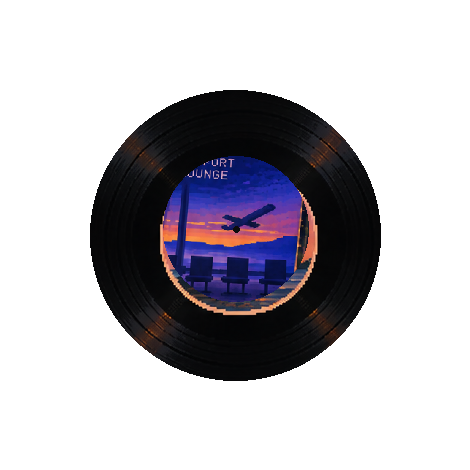
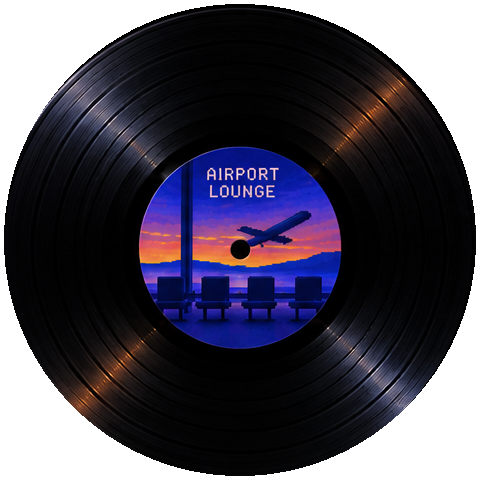
Add files via upload

diff --git a/index.html b/index.html
@@ -204,7 +204,7 @@ html,body{margin:0;width:100%;height:100%;overflow:hidden;background:#05070b;col
 .record-sleeve-hit{top:45.2%;height:17.7%}
 .record-sleeve-hit.s1{left:1.0%;width:21.0%}.record-sleeve-hit.s2{left:20.8%;width:21.2%}.record-sleeve-hit.s3{left:40.4%;width:20.7%}.record-sleeve-hit.s4{left:59.4%;width:21.8%}.record-sleeve-hit.s5{left:79.0%;width:20.0%}
 /* Only the vinyl rotates. The tonearm stays baked into the master image and therefore stationary. */
-.record-spin{position:absolute;left:31.0%;top:22.5%;width:34.5%;aspect-ratio:1;z-index:3;border-radius:50%;pointer-events:none;opacity:0;object-fit:contain;filter:drop-shadow(0 2px 2px #0008)}
+.record-spin{position:absolute;left:29.4%;top:22.0%;width:36.7%;aspect-ratio:1;z-index:3;border-radius:50%;pointer-events:none;opacity:0;object-fit:contain;filter:drop-shadow(0 2px 2px #0008)}
 .record-window.playing .record-spin{opacity:1;animation:recordSpin 2.25s linear infinite}
 .record-playing-dot{position:absolute;left:31.6%;top:40.2%;width:8px;height:8px;border-radius:50%;background:#ff3a20;box-shadow:0 0 8px #ff4a20;z-index:6;opacity:0;pointer-events:none}
 .record-window.playing .record-playing-dot{opacity:1}
@@ -524,8 +524,8 @@ const recordCollection=[
  {title:'ELEVATOR DREAMS',artist:'KEVIN MACLEOD',url:'https://commons.wikimedia.org/wiki/Special:Redirect/file/Local_Forecast_-_Elevator_%28ISRC_USUAN1300012%29.mp3',credit:'Local Forecast - Elevator — Kevin MacLeod · CC BY 3.0'},
  {title:'LOBBY TIME',artist:'KEVIN MACLEOD',url:'https://commons.wikimedia.org/wiki/Special:Redirect/file/Lobby_Time_%28ISRC_USUAN1600054%29.mp3',credit:'Lobby Time — Kevin MacLeod · CC BY 3.0'},
  {title:'AIRPORT LOUNGE',artist:'KEVIN MACLEOD',url:'https://commons.wikimedia.org/wiki/Special:Redirect/file/Airport_Lounge_%28ISRC_USUAN1100806%29.mp3',credit:'Airport Lounge — Kevin MacLeod · CC BY 3.0'},
- {title:'LOCAL FORECAST',artist:'KEVIN MACLEOD',url:'https://commons.wikimedia.org/wiki/Special:Redirect/file/Local_Forecast_%28ISRC_USUAN1300010%29.mp3',credit:'Local Forecast — Kevin MacLeod · CC BY 3.0'},
- {title:'NIGHT FLOORS',artist:'KEVIN MACLEOD',url:'https://commons.wikimedia.org/wiki/Special:Redirect/file/Local_Forecast_-_Slower_%28ISRC_USUAN1300011%29.mp3',credit:'Local Forecast - Slower — Kevin MacLeod · CC BY 3.0'}
+ {title:'LOCAL FORECAST',artist:'KEVIN MACLEOD',url:'https://commons.wikimedia.org/wiki/Special:Redirect/file/Home_Base_Groove_%28Kevin_MacLeod%29_Time_4-01_%28ISRC_USUAN1100563%29.oga',credit:'Home Base Groove — Kevin MacLeod · CC BY 3.0'},
+ {title:'NIGHT FLOORS',artist:'KEVIN MACLEOD',url:'https://commons.wikimedia.org/wiki/Special:Redirect/file/Peaceful_Desolation_%28ISRC_USUAN1200017%29.mp3',credit:'Peaceful Desolation — Kevin MacLeod · CC BY 3.0'}
 ];
 let currentRecord=0,statusTimer=null;
 function showRecordStatus(text){
